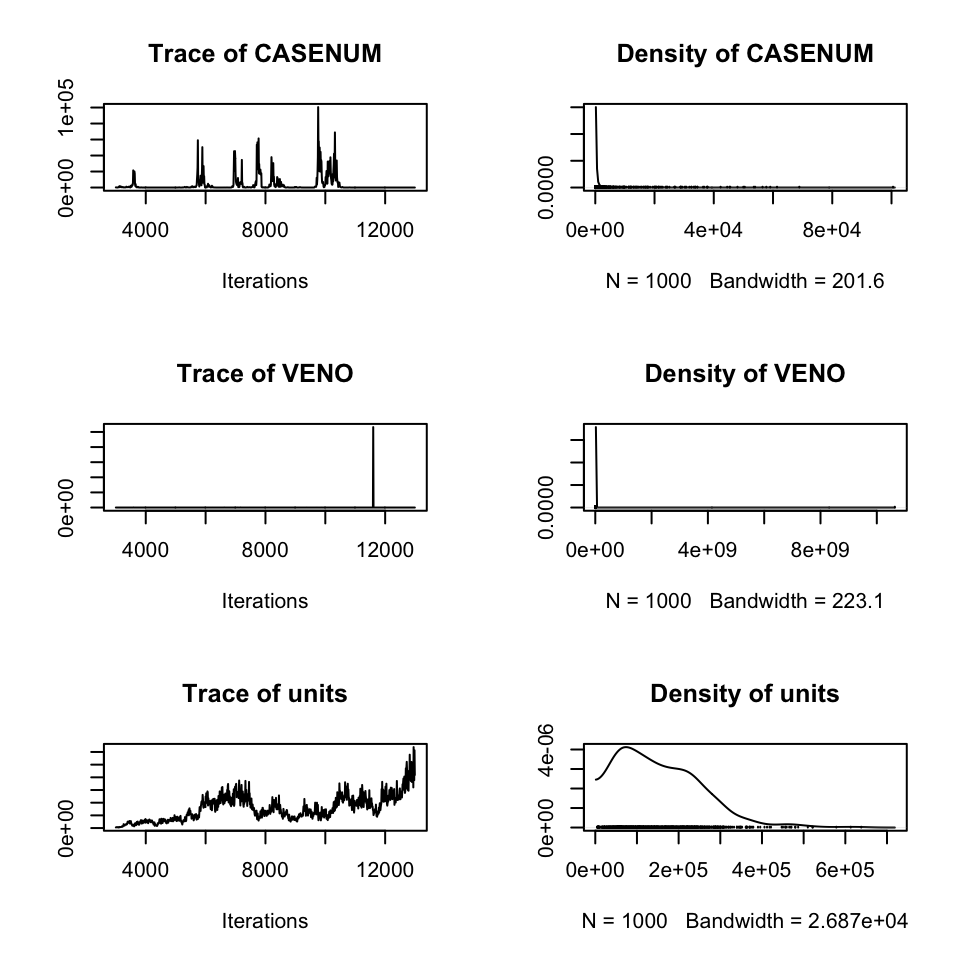
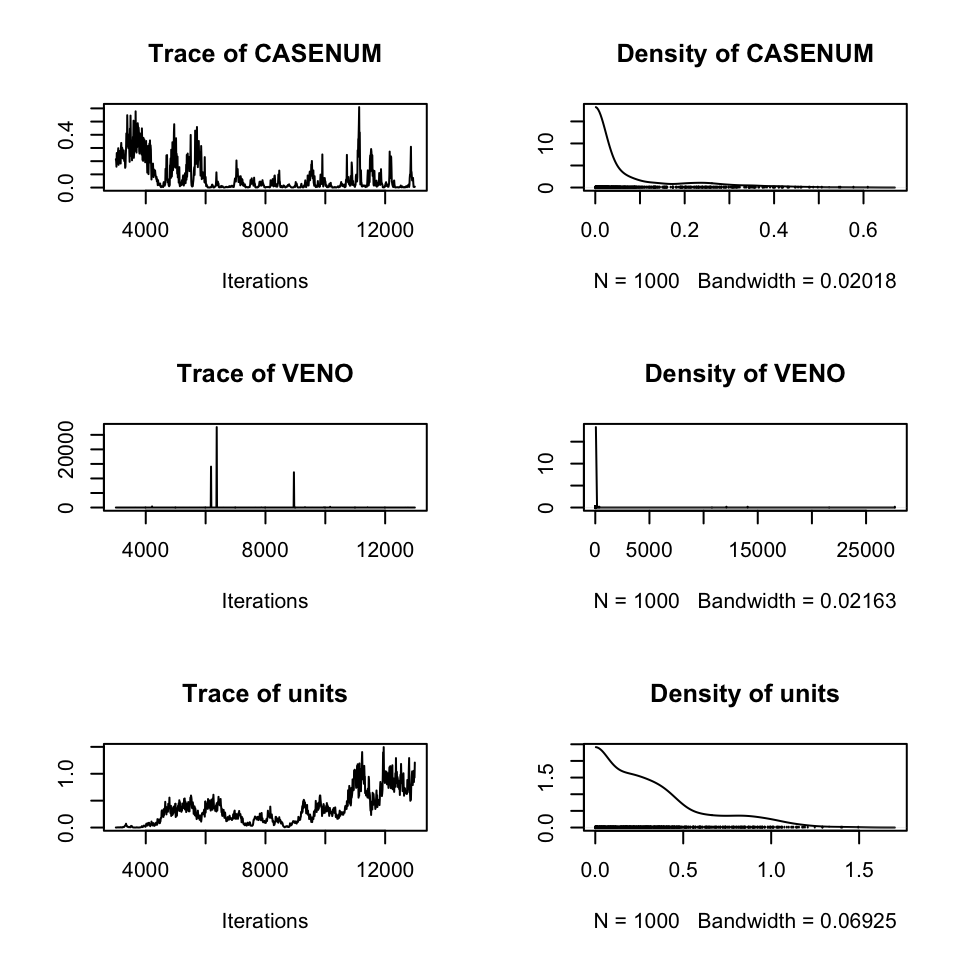
change config

diff --git a/content/post/2021-04-10-accident-analysis/index.html b/content/post/2021-04-10-accident-analysis/index.html
@@ -5,7 +5,7 @@ date: '2021-04-10'
 slug: accident-analysis
 categories:
   - Example
-tags: []
+tags: ['data_process']
 ---
 
 <script src="{{< blogdown/postref >}}index_files/header-attrs/header-attrs.js"></script>
@@ -196,8 +196,8 @@ coef(ij_mixed)$CASENUM %&gt;% head(5)
 library(merTools)
 predictInterval(ij_mixed) %&gt;% 
   summarise(across(everything(), mean, na.rm= TRUE))
-#         fit      upr        lwr
-# 1 0.3569892 1.253454 -0.5345119
+#         fit      upr      lwr
+# 1 0.3638575 1.249937 -0.52145
 
 #REsim(ij_mixed)
 plotREsim(REsim(ij_mixed))</code></pre>
@@ -239,8 +239,8 @@ fitmcmc &lt;- MCMCglmm(INJ_SEV ~ SEX + REST_USE, random = ~CASENUM + VENO,
                     data = as.data.frame(dfdemo), verbose=FALSE, prior=prior, family=&quot;ordinal&quot;)
 
 diag(autocorr(fitmcmc$VCV)[2,,])
-#     CASENUM        VENO       units 
-#  0.76033319 -0.00102237  0.89738029
+#      CASENUM         VENO        units 
+#  0.850507445 -0.002763166  0.932194024
 
 #MCMC summary plot for the variance components from model fitmcmc
 plot(fitmcmc$VCV)</code></pre>
@@ -248,17 +248,17 @@ plot(fitmcmc$VCV)</code></pre>
 <pre class="r"><code>
 #The posterior correlation between the parameters is low
 cor(fitmcmc$VCV)
-#             CASENUM         VENO        units
-# CASENUM  1.00000000 -0.011235402 -0.070809177
-# VENO    -0.01123540  1.000000000 -0.003838541
-# units   -0.07080918 -0.003838541  1.000000000
+#            CASENUM         VENO        units
+# CASENUM  1.0000000 -0.024926802 -0.277493112
+# VENO    -0.0249268  1.000000000  0.004053312
+# units   -0.2774931  0.004053312  1.000000000
 
 #
 HPDinterval(fitmcmc$VCV)
 #                lower     upper
-# CASENUM 9.241798e-05  21413.12
-# VENO    5.297427e-04 114129.39
-# units   4.185754e+03 329453.60
+# CASENUM 0.0002883393 0.3434382
+# VENO    0.0002798060 2.2653277
+# units   0.0003516143 0.9497650
 # attr(,&quot;Probability&quot;)
 # [1] 0.95
 
@@ -269,5 +269,5 @@ fitmcmc2 &lt;- MCMCglmm(INJ_SEV ~ SEX + REST_USE, random = ~CASENUM,
 
 
 fitmcmc$DIC
-# [1] -16725.37</code></pre>
+# [1] 144.2693</code></pre>
 </div>
